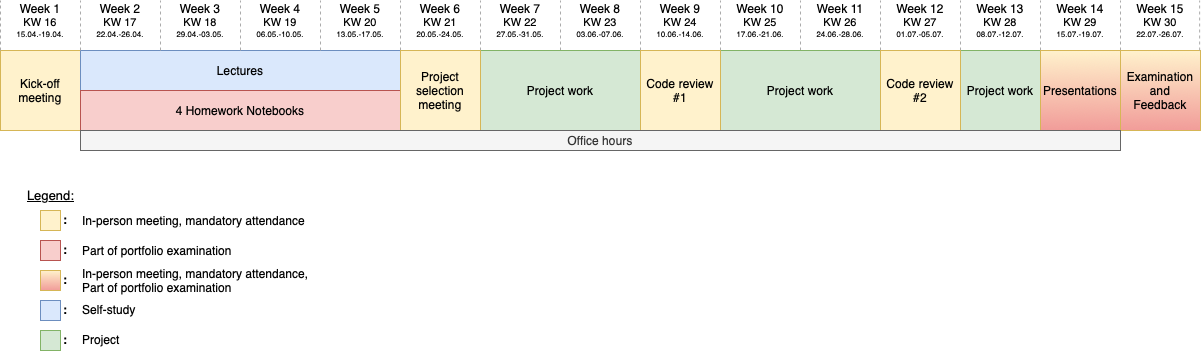
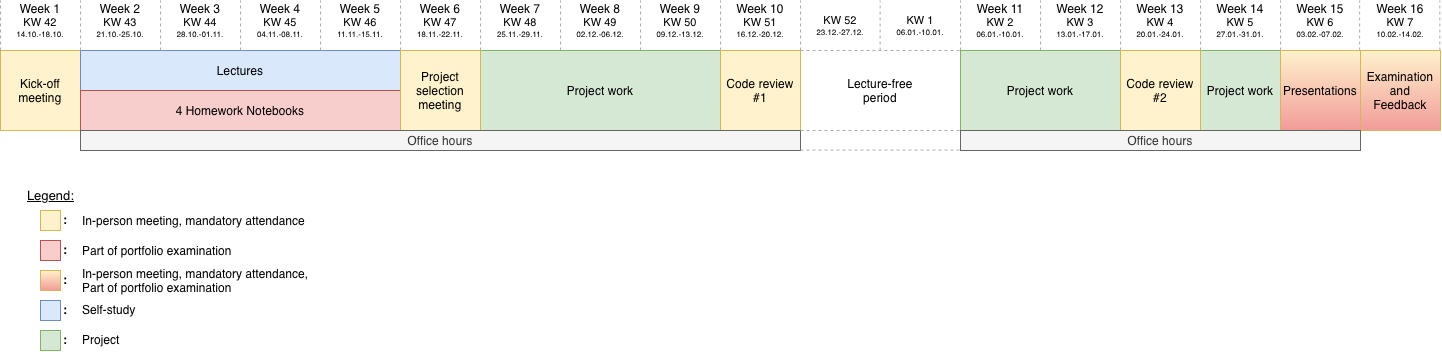
Update course information for WiSe 24/25

diff --git a/website/_layout/sidebar.html b/website/_layout/sidebar.html
@@ -5,7 +5,7 @@
       <p class="lead">
         Julia Programming<br>
         for Machine Learning<br>
-        SoSe 2024 @ TU Berlin.</p>
+        WiSe 24/25 @ TU Berlin.</p>
     </div>
     <div class="sidebar-nav-section">Course overview</div>
       <a class="sidebar-nav-item {{ispage /}}active{{end}}" href="/">General Information</a>

diff --git a/website/index.md b/website/index.md
@@ -108,20 +108,22 @@ If you do not register on time, you cannot pass the course.
 
 ![JuML course timeline](/assets/timeline.png)
 
-* **Course Period:**  April 15th - July 20th 2024 
-  * **Project meetings:** Tuesdays, 14:15-15:45, MAR 4.044
+* **Course Period:**  October 14th 2024 - February 14th 2025
+  * **Kick-off meeting:** Tuesday, October 15th, 14:15-15:45, MA 042
+  * **Project meetings:** Tuesdays, 14:15-15:45, H 3006
   * **Office hours:** TBA
 
-Attendance is mandatory on the following five dates:
-* Tuesday, 16.04.24
-* Tuesday, 21.05.24
-* Tuesday, 11.06.24
-* Tuesday, 02.07.24
-* Tuesday, 16.07.24
+Attendance is mandatory on the following dates:
+* Tuesday, 15.10.24
+* Tuesday, 19.11.24
+* Tuesday, 17.12.24
+* Tuesday, 21.01.25
+* Tuesday, 04.02.25
+* Tuesday, 11.02.25
 
 The date of the final examination will be determined on a group-by-group basis.
 
-More information can be found on [ISIS](https://isis.tu-berlin.de/course/view.php?id=37588).
+More information can be found on [ISIS](https://isis.tu-berlin.de/course/view.php?id=40973).
 
 ## FAQ
 #### Why should I learn Julia?

diff --git a/README.md b/README.md
@@ -94,7 +94,7 @@ before presenting their work in end-of-semester presentations.
 
 [site-url]: https://adrhill.github.io/julia-ml-course/
 [ml-group-url]: https://web.ml.tu-berlin.de
-[isis-url]: https://isis.tu-berlin.de/course/view.php?id=37588
+[isis-url]: https://isis.tu-berlin.de/course/view.php?id=40973
 
 [goto-badge]: https://img.shields.io/badge/-Go%20to%20course%20website-informational
 [isis-badge]: https://img.shields.io/badge/TU%20Berlin-ISIS%20page-red
